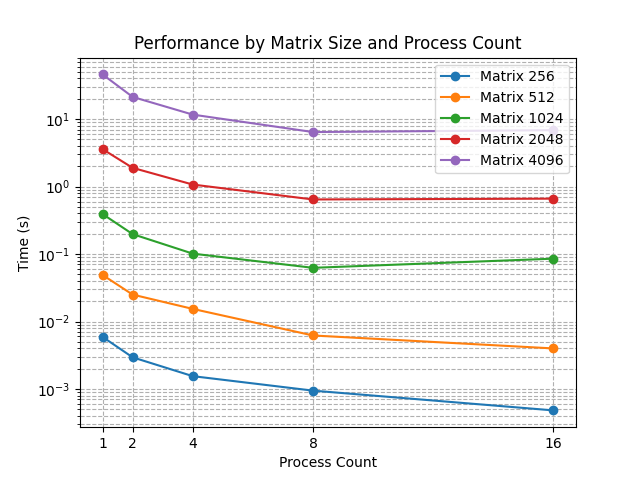
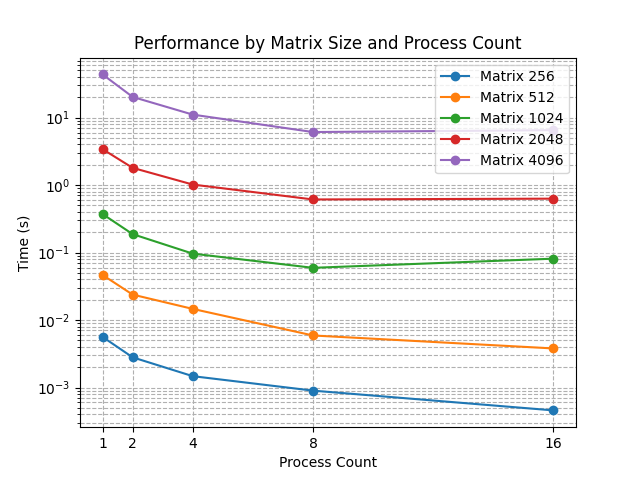
updatae

diff --git a/table.py b/table.py
@@ -3,11 +3,11 @@ import matplotlib.pyplot as plt
 
 # 你提供的数据
 table = np.array([
-    [0.005921, 0.048979, 0.391363, 3.582811, 45.888383],
-    [0.002949, 0.025063, 0.197304, 1.892759, 21.289783],
-    [0.001551, 0.015384, 0.101385, 1.070382, 11.637980],
-    [0.000946, 0.006214, 0.062479, 0.643595, 6.418614],
-    [0.000482, 0.003992, 0.085388, 0.661593, 6.849250]
+    [0.005625, 0.046530, 0.371795, 3.403670, 43.593964],
+    [0.002802, 0.023810, 0.187439, 1.798121, 20.225294],
+    [0.001473, 0.014615, 0.096316, 1.016863, 11.056081],
+    [0.000899, 0.005903, 0.059355, 0.611415, 6.097683],
+    [0.000458, 0.003792, 0.081119, 0.628513, 6.506788]
 ])
 
 # 进程数

diff --git a/PP2/mpimm_col.md b/PP2/mpimm_col.md
@@ -272,10 +272,15 @@ MPI_Gather(localC, block_rows * block_cols, MPI_FLOAT, C, block_rows * block_col
 
 ### 4.3 实验结果
 
-| P\N  | 128      | 256      | 512      | 1024     | 2048      |
-| ---- | -------- | -------- | -------- | -------- | --------- |
-| 1    | 0.005625 | 0.048979 | 0.391363 | 3.582811 | 45.888383 |
-| 2    | 0.002802 | 0.025063 | 0.197304 | 1.892759 | 21.289783 |
-| 4    | 0.001551 | 0.015384 | 0.101385 | 1.070382 | 11.637980 |
-| 8    | 0.000946 | 0.006214 | 0.062479 | 0.643595 | 6.418614  |
-| 16   | 0.000482 | 0.003992 | 0.085388 | 0.661593 | 6.849250  |
+| P \ N   | 128      | 256      | 512      | 1024     | 2048     |
+|---------|----------|----------|----------|----------|----------|
+| 1       | 0.005625 | 0.046530 | 0.371795 | 3.403670 | 43.593964|
+| 2       | 0.002802 | 0.023810 | 0.187439 | 1.798121 | 20.225294 |
+| 4       | 0.001473 | 0.014615 | 0.096316 | 1.016863 | 11.056081 |
+| 8       | 0.000899 | 0.005903 | 0.059355 | 0.611415 | 6.097683  |
+| 16      | 0.000458 | 0.003792 | 0.081119 | 0.628513 | 6.506788  |
+
+
+根据表格，绘制图片：
+
+![](https://github.com/xiao10ma/Parallel-Programming/blob/master/PP2/Figure_2.png?raw=true)
